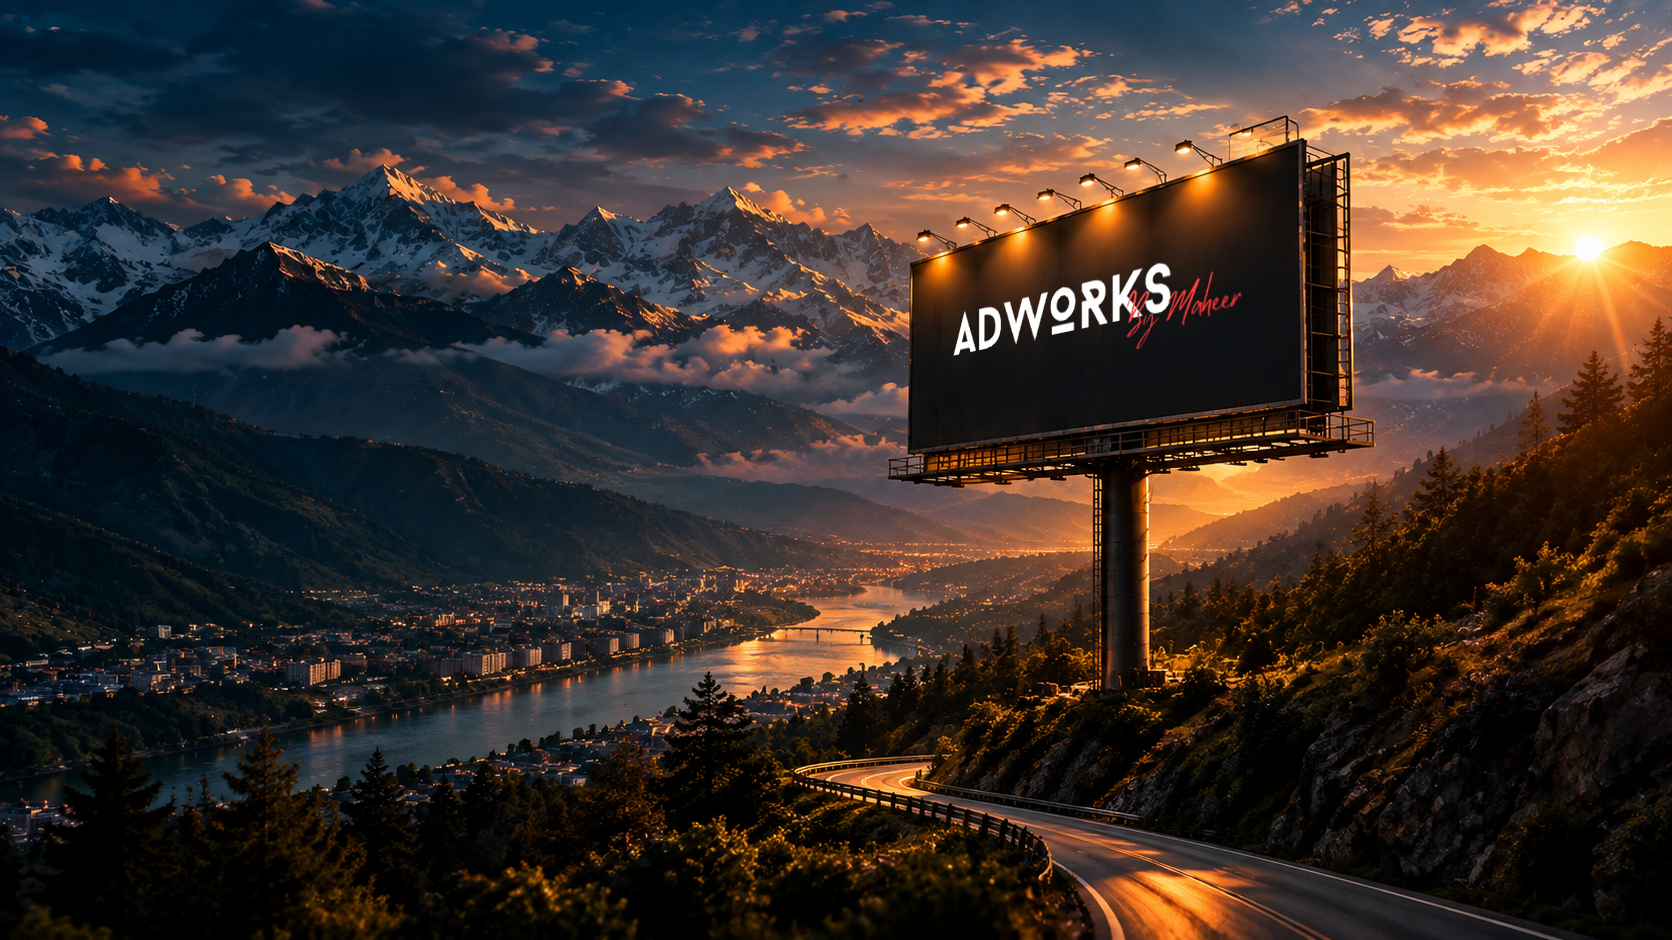
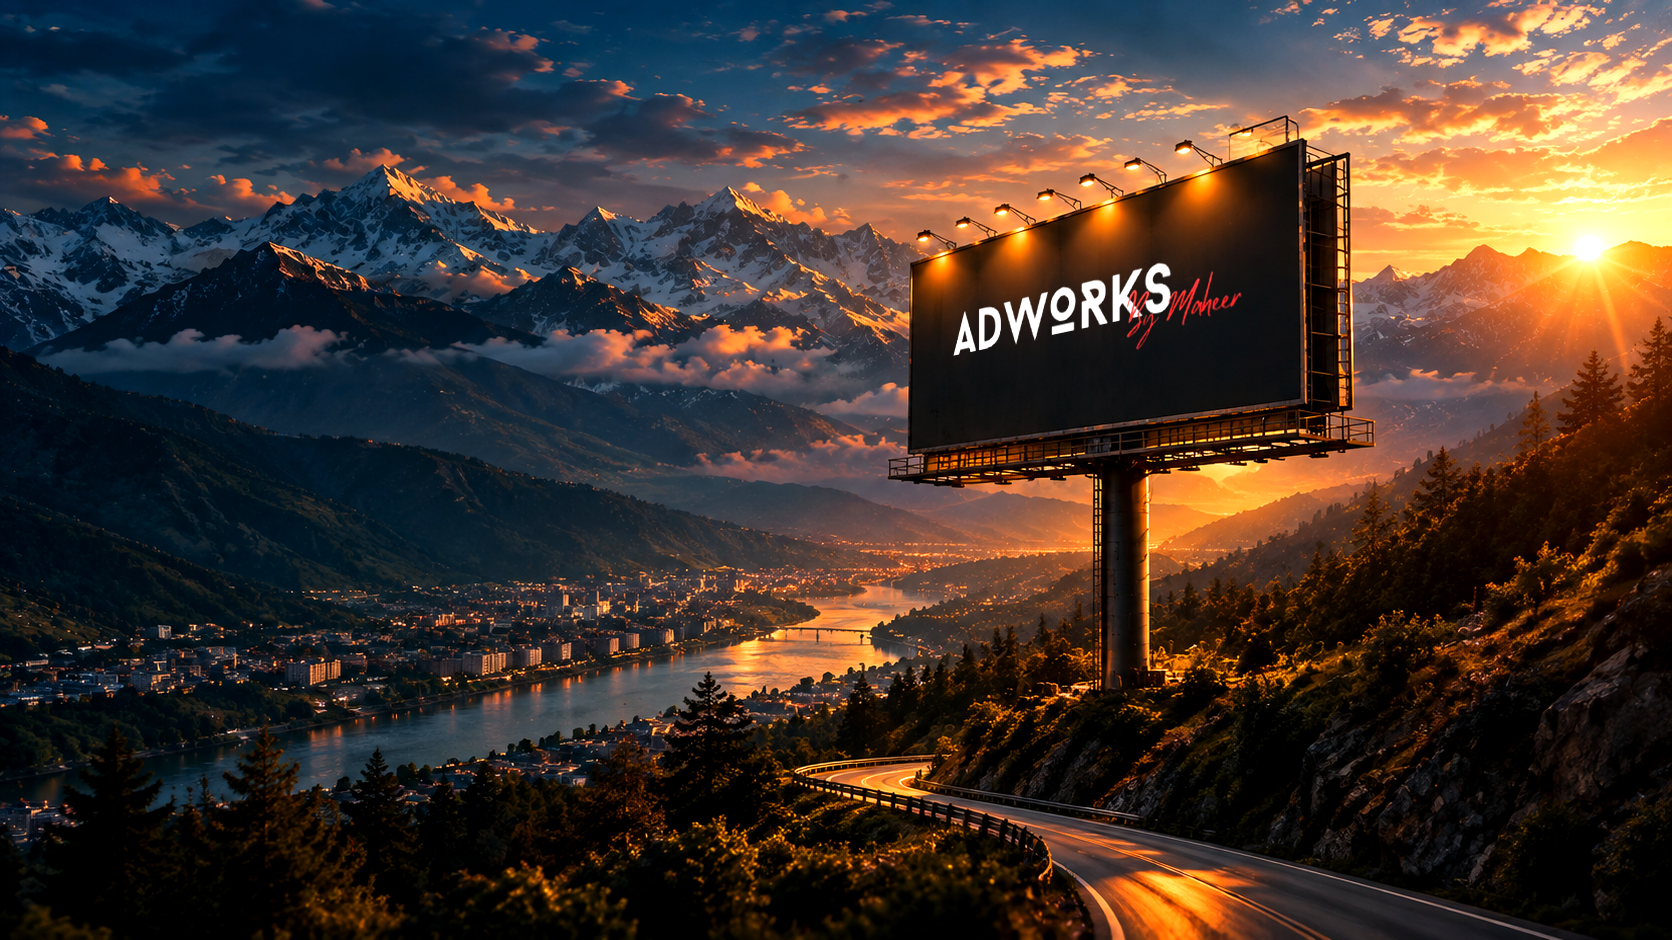
Fix mobile menu close button, retheme to red, and cut scroll jank
Performance - the page stuttered because many elements were resampling and
blurring the fixed backdrop on every scroll frame:
- .card-base carried backdrop-filter: blur(12px) and is used on ~26 elements.
  Removed; opacity raised 0.80 -> 0.86 so the panels look the same.
- Section veils blurred the full viewport width for a 1-2px effect nobody can
  perceive. Removed from both veil classes, opacity nudged to compensate.
- Stripped 12 further backdrop-blur layers across components, keeping only the
  strategy modal, where the frosting is visible and only exists while open.
  The menu overlay's full-screen blur sat under a 97%-opaque fill, so it cost
  a lot and showed nothing.
- .site-bg-image ran saturate/brightness/contrast as a CSS filter on a
  viewport-sized fixed layer, re-filtering it continuously. Baked into the
  image files instead; visually identical, no runtime cost.
- Navbar's scroll listener was non-passive and called setState on every event.
  Now passive and only sets state when the flag actually flips.
- Moved scroll-behavior: smooth off the universal selector onto html.

Mobile menu:
- Added a close button. The menu renders inside <header>, so its z-40 overlay
  painted over the hamburger's z-auto and hid the X; the menu now owns its own
  control, and the logo is lifted to z-50 so it stays visible while open.
- Retheme to red and black: lamp light, gantry rail, housing edge and panel
  spill were amber/orange and are now the brand red.

Mobile backdrop:
[…]

diff --git a/src/components/HoardingMenu.tsx b/src/components/HoardingMenu.tsx
@@ -1,5 +1,5 @@
 import React, { useEffect } from 'react';
-import { ArrowUpRight } from 'lucide-react';
+import { ArrowUpRight, X } from 'lucide-react';
 
 /**
  * Mobile navigation styled and animated as a trivision hoarding - the
@@ -64,19 +64,31 @@ export const HoardingMenu: React.FC<HoardingMenuProps> = ({
     <div className="xl:hidden fixed inset-0 z-40" role="dialog" aria-modal="true" aria-label="Menu">
       {/* Night ground behind the gantry */}
       <div
-        className="menu-veil absolute inset-0 bg-[#070608]/97 backdrop-blur-xl"
+        className="menu-veil absolute inset-0 bg-[#070608]/98"
         onClick={onClose}
       />
 
       <div className="relative h-full overflow-y-auto overscroll-contain pt-16 sm:pt-20 pb-8 px-4">
+        {/* Close - the header toggle sits beneath this overlay, so the menu
+            carries its own control */}
+        <button
+          type="button"
+          onClick={onClose}
+          aria-label="Close menu"
+          className="menu-plate absolute right-4 top-[4.5rem] sm:top-[5.5rem] z-10 inline-flex items-center gap-1.5 rounded-md border border-red-500/40 bg-black/70 px-2.5 py-1.5 text-[10px] font-bold uppercase tracking-widest text-red-400 active:bg-red-600 active:text-white transition-colors"
+        >
+          <X className="w-3.5 h-3.5" />
+          <span>Close</span>
+        </button>
+
         {/* ---- Lamp gantry: strikes on, then lights the boards below ---- */}
-        <div className="relative mx-auto max-w-md" aria-hidden="true">
+        <div className="relative mx-auto mt-9 max-w-md" aria-hidden="true">
           <div className="flex items-end justify-between px-3">
             {Array.from({ length: LAMP_COUNT }).map((_, i) => (
               <div key={i} className="relative flex flex-col items-center">
                 {/* housing */}
                 <span className="block w-3.5 h-1.5 rounded-t-sm bg-zinc-700" />
-                <span className="block w-5 h-2 rounded-b-[3px] bg-gradient-to-b from-zinc-600 to-zinc-800 border-b border-amber-200/40" />
+                <span className="block w-5 h-2 rounded-b-[3px] bg-gradient-to-b from-zinc-700 to-zinc-900 border-b border-red-400/50" />
                 {/* Light cone. No negative z-index: this sits inside the
                     overlay's z-40 stacking context, where -z would drop it
                     behind the backdrop and vanish. It paints over the boards
@@ -86,14 +98,14 @@ export const HoardingMenu: React.FC<HoardingMenuProps> = ({
                   style={{
                     animationDelay: `${90 + i * 45}ms`,
                     background:
-                      'radial-gradient(50% 60% at 50% 0%, rgba(255,186,104,0.55) 0%, rgba(255,150,60,0.16) 45%, transparent 75%)',
+                      'radial-gradient(50% 60% at 50% 0%, rgba(255,70,70,0.55) 0%, rgba(230,0,0,0.18) 45%, transparent 75%)',
                   }}
                 />
               </div>
             ))}
           </div>
           {/* gantry rail */}
-          <div className="mt-1 h-px bg-gradient-to-r from-transparent via-amber-200/30 to-transparent" />
+          <div className="mt-1 h-px bg-gradient-to-r from-transparent via-red-500/35 to-transparent" />
         </div>
 
         {/* ---- The boards ---- */}

diff --git a/src/index.css b/src/index.css
@@ -19,6 +19,10 @@
   margin: 0;
   padding: 0;
   box-sizing: border-box;
+}
+
+/* Belongs on the scrolling root, not on every element */
+html {
   scroll-behavior: smooth;
 }
 
@@ -54,8 +58,10 @@ h1, h2, h3, h4, h5, h6 {
 /* Uniform Card & Panel Utilities */
 @layer utilities {
   .card-base {
-    background-color: rgba(18, 16, 21, 0.8);
-    backdrop-filter: blur(12px);
+    /* No backdrop-filter here: this class is used on ~26 elements and each
+       one would resample + blur the fixed backdrop on every scroll frame.
+       At 0.86 opacity the blur was imperceptible anyway. */
+    background-color: rgba(18, 16, 21, 0.86);
     border: 1px solid var(--border-subtle);
     border-radius: 16px;
     transition: all 0.25s ease-in-out;
@@ -116,9 +122,8 @@ h1, h2, h3, h4, h5, h6 {
   background-size: cover;
   background-position: center 45%;
   background-repeat: no-repeat;
-  /* Crisp: no blur. A small brightness/saturation lift keeps the
-     mountains and sunset reading through the veils above. */
-  filter: saturate(1.14) brightness(1.08) contrast(1.02);
+  /* The saturation/brightness/contrast lift is baked into the image files:
+     as a CSS filter it forced a viewport-sized layer to be re-filtered. */
   transform: scale(1.02);
   opacity: 1;
 }
@@ -158,14 +163,12 @@ h1, h2, h3, h4, h5, h6 {
    value across content sections avoids visible banding on scroll. */
 @layer utilities {
   .section-veil {
-    background-color: rgba(9, 8, 10, 0.58);
-    backdrop-filter: blur(1px);
+    background-color: rgba(9, 8, 10, 0.60);
   }
 
   /* Form- and detail-heavy sections get a little more cover */
   .section-veil-strong {
-    background-color: rgba(9, 8, 10, 0.70);
-    backdrop-filter: blur(2px);
+    background-color: rgba(9, 8, 10, 0.72);
   }
 
   /* Hero: the reveal moment. Only a light wash, so the billboard and
@@ -212,18 +215,13 @@ h1, h2, h3, h4, h5, h6 {
    blurring it is expensive, so lean on a touch more veil instead. */
 @media (max-width: 640px) {
   .site-bg-image {
-    filter: saturate(1.12) brightness(1.06);
     opacity: 0.95;
   }
   .section-veil {
-    background-color: rgba(9, 8, 10, 0.68);
+    background-color: rgba(9, 8, 10, 0.70);
   }
   .section-veil-strong {
-    background-color: rgba(9, 8, 10, 0.78);
-  }
-  .section-veil,
-  .section-veil-strong {
-    backdrop-filter: none;
+    background-color: rgba(9, 8, 10, 0.80);
   }
 }
 
@@ -243,6 +241,20 @@ h1, h2, h3, h4, h5, h6 {
     background-position: center top;
     inset: 0;
     transform: none;
+  }
+
+  /* On a phone the billboard lands directly behind the hero copy, so deepen
+     and widen the pool: the board, gantry and road still read, while its own
+     wordmark stays well back of the site's headline and logo. */
+  .hero-spotlight {
+    background:
+      radial-gradient(
+        82% 54% at 50% 40%,
+        rgba(9, 8, 10, 0.80) 0%,
+        rgba(9, 8, 10, 0.66) 42%,
+        rgba(9, 8, 10, 0.30) 72%,
+        transparent 92%
+      );
   }
 }
 
@@ -314,8 +326,8 @@ h1, h2, h3, h4, h5, h6 {
 .panel-spill {
   background: linear-gradient(
     to bottom,
-    rgba(255, 176, 84, 0.20) 0%,
-    rgba(255, 140, 60, 0.07) 38%,
+    rgba(255, 62, 62, 0.20) 0%,
+    rgba(230, 0, 0, 0.07) 38%,
     transparent 78%
   );
 }

diff --git a/src/components/HoardingsShowcase.tsx b/src/components/HoardingsShowcase.tsx
@@ -119,7 +119,7 @@ export const HoardingsShowcase: React.FC<HoardingsShowcaseProps> = ({ onOpenModa
                 </picture>
                 {/* Keeps the photo sitting in the dark theme and the caption legible */}
                 <div className="absolute inset-0 bg-gradient-to-t from-black/90 via-black/25 to-black/30"></div>
-                <div className="absolute bottom-3 left-3 right-3 p-3 bg-black/80 backdrop-blur-md rounded-lg border border-white/10">
+                <div className="absolute bottom-3 left-3 right-3 p-3 bg-black/85 rounded-lg border border-white/10">
                   <div className="flex items-center gap-1.5 text-xs font-bold text-white mb-0.5">
                     <Sparkles className="w-3.5 h-3.5 text-red-500" />
                     <span>Outdoor + Digital Retargeting</span>
@@ -179,7 +179,7 @@ export const HoardingsShowcase: React.FC<HoardingsShowcaseProps> = ({ onOpenModa
                 <div className="absolute inset-0 bg-gradient-to-t from-black/92 via-black/35 to-black/20 group-hover:from-black/85 transition-colors duration-300"></div>
 
                 {/* Index chip */}
-                <span className="absolute top-2.5 left-2.5 w-6 h-6 rounded-md bg-black/70 backdrop-blur-sm border border-white/10 text-[10px] font-bold text-red-400 flex items-center justify-center">
+                <span className="absolute top-2.5 left-2.5 w-6 h-6 rounded-md bg-black/80 border border-white/10 text-[10px] font-bold text-red-400 flex items-center justify-center">
                   {String(i + 1).padStart(2, '0')}
                 </span>
 

diff --git a/src/components/Navbar.tsx b/src/components/Navbar.tsx
@@ -22,16 +22,23 @@ export const Navbar: React.FC = () => {
   const [mobileMenuOpen, setMobileMenuOpen] = useState(false);
 
   useEffect(() => {
+    // Passive so the listener can never block scrolling, and the state is
+    // only touched when the flag actually flips rather than on every event.
+    let last = window.scrollY > 20;
     const handleScroll = () => {
-      setScrolled(window.scrollY > 20);
+      const next = window.scrollY > 20;
+      if (next !== last) {
+        last = next;
+        setScrolled(next);
+      }
     };
-    window.addEventListener('scroll', handleScroll);
+    window.addEventListener('scroll', handleScroll, { passive: true });
     return () => window.removeEventListener('scroll', handleScroll);
   }, []);
 
   return (
     <header className={`fixed top-0 left-0 right-0 z-50 transition-all duration-300 ${
-      scrolled ? 'bg-[#09080A]/95 backdrop-blur-md border-b border-white/10 h-16 sm:h-20 shadow-lg shadow-black/50' : 'bg-transparent h-16 sm:h-20'
+      scrolled ? 'bg-[#09080A]/95 border-b border-white/10 h-16 sm:h-20 shadow-lg shadow-black/50' : 'bg-transparent h-16 sm:h-20'
     }`}>
       <div className="max-w-7xl mx-auto px-4 sm:px-6 lg:px-8 h-full">
         <div className="flex items-center justify-between h-full">

diff --git a/src/components/AboutDirector.tsx b/src/components/AboutDirector.tsx
@@ -25,7 +25,7 @@ export const AboutDirector: React.FC = () => {
           
           {/* Left Column: Director Photo */}
           <div className="lg:col-span-5 max-w-sm mx-auto lg:max-w-none w-full">
-            <div className="card-base p-2.5 bg-[#0F0C12]/85 backdrop-blur-sm border-red-500/20">
+            <div className="card-base p-2.5 bg-[#0F0C12]/85 border-red-500/20">
               <div className="relative aspect-[4/5] rounded-xl overflow-hidden bg-zinc-900">
                 <img
                   src="/maheer_director.png"
@@ -34,7 +34,7 @@ export const AboutDirector: React.FC = () => {
                 />
                 <div className="absolute inset-0 bg-gradient-to-t from-black/90 via-black/20 to-transparent"></div>
 
-                <div className="absolute bottom-3 left-3 right-3 p-3 bg-black/80 backdrop-blur-md rounded-lg border border-white/10">
+                <div className="absolute bottom-3 left-3 right-3 p-3 bg-black/85 rounded-lg border border-white/10">
                   <div className="flex items-center justify-between">
                     <div>
                       <h3 className="font-heading font-bold text-base text-white">Maheer</h3>

diff --git a/src/components/ContactSection.tsx b/src/components/ContactSection.tsx
@@ -46,7 +46,7 @@ export const ContactSection: React.FC<ContactSectionProps> = ({ onOpenModal }) =
           {/* Left Column: Direct Info */}
           <div className="lg:col-span-5 space-y-4">
             
-            <div className="card-base p-6 bg-[#0F0C12]/85 backdrop-blur-sm border-red-500/20">
+            <div className="card-base p-6 bg-[#0F0C12]/85 border-red-500/20">
               <h3 className="font-heading font-bold text-lg text-white mb-1">
                 Adworks Media & Growth Desk
               </h3>
@@ -146,7 +146,7 @@ export const ContactSection: React.FC<ContactSectionProps> = ({ onOpenModal }) =
 
           {/* Right Column: Inquiry Form without Price/Budget dropdown */}
           <div className="lg:col-span-7">
-            <div className="card-base p-6 sm:p-8 bg-[#0F0C12]/85 backdrop-blur-sm border-red-500/20">
+            <div className="card-base p-6 sm:p-8 bg-[#0F0C12]/85 border-red-500/20">
               
               {!submitted ? (
                 <div>

diff --git a/src/components/Footer.tsx b/src/components/Footer.tsx
@@ -3,7 +3,7 @@ import { Phone, Mail, Globe, ArrowUpRight, Instagram, Facebook, Linkedin } from 
 
 export const Footer: React.FC = () => {
   return (
-    <footer className="bg-[#050405]/85 backdrop-blur-sm text-white pt-14 pb-10 border-t border-white/10 relative overflow-hidden">
+    <footer className="bg-[#050405]/85 text-white pt-14 pb-10 border-t border-white/10 relative overflow-hidden">
       
       <div className="max-w-6xl mx-auto px-4 sm:px-6 lg:px-8 relative z-10">
         

diff --git a/src/components/OneStopModel.tsx b/src/components/OneStopModel.tsx
@@ -59,7 +59,7 @@ export const OneStopModel: React.FC = () => {
           </div>
 
           {/* Adworks Integrated Model */}
-          <div className="card-base p-6 bg-[#0F0C12]/85 backdrop-blur-sm border-red-500/40">
+          <div className="card-base p-6 bg-[#0F0C12]/85 border-red-500/40">
             <div className="flex items-center gap-2.5 mb-4 pb-3 border-b border-red-500/30">
               <CheckCircle2 className="w-5 h-5 text-red-500" />
               <div>

diff --git a/src/components/GrowthRoadmap.tsx b/src/components/GrowthRoadmap.tsx
@@ -60,7 +60,7 @@ export const GrowthRoadmap: React.FC = () => {
             <div 
               key={idx}
               className={`card-base p-4 relative ${
-                p.active ? 'border-red-500/40 bg-[#0F0C12]/85 backdrop-blur-sm' : 'bg-[#121015]/75 opacity-75'
+                p.active ? 'border-red-500/40 bg-[#0F0C12]/85' : 'bg-[#121015]/75 opacity-75'
               }`}
             >
               <div className="flex items-center justify-between mb-3">

diff --git a/src/components/ServiceEcosystem.tsx b/src/components/ServiceEcosystem.tsx
@@ -149,7 +149,7 @@ export const ServiceEcosystem: React.FC = () => {
         </div>
 
         {/* Selected Division Details */}
-        <div className="card-base p-6 sm:p-8 bg-[#0F0C12]/85 backdrop-blur-sm border-red-500/30">
+        <div className="card-base p-6 sm:p-8 bg-[#0F0C12]/85 border-red-500/30">
           
           <div className="flex flex-col sm:flex-row sm:items-center justify-between gap-4 pb-6 border-b border-white/10">
             <div>

diff --git a/src/components/BrandLogoDock.tsx b/src/components/BrandLogoDock.tsx
@@ -119,7 +119,7 @@ export const BrandLogoDock: React.FC = () => {
       ref={dockRef}
       href="#"
       aria-label="Adworks by Maheer - back to top"
-      className="fixed opacity-0 will-change-transform"
+      className="fixed z-50 opacity-0 will-change-transform"
       style={{ left: 0, top: 0, transform: 'translate(-50%, -50%)', transformOrigin: 'center center' }}
     >
       <img
